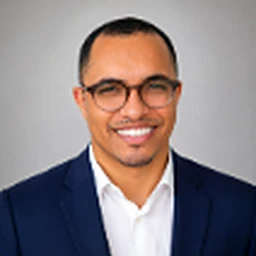
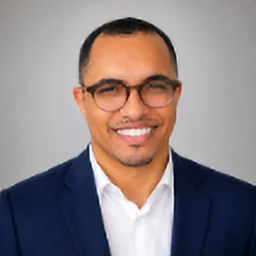
Sobre: seção renomeada para Autoria e colaboração; foto do Leonardo ampliada por super-resolução
Claude-Session: https://claude.ai/code/session_01DFo771rX3ZbXMTpi7iw3AK

diff --git a/index.html b/index.html
@@ -3087,7 +3087,7 @@ SESSÃO A AVALIAR (já pseudonimizada, turnos numerados)
 
 
     <details class="disclosure" id="autores" open>
-      <summary><span>Sobre os autores</span><span class="dchev">›</span></summary>
+      <summary><span>Autoria e colaboração</span><span class="dchev">›</span></summary>
       <div class="dbody autores">
         <article class="autor"><img src="img/autores/vinicius.webp" alt="Foto de Vinícius Delfino Silva" width="96" height="96" loading="lazy"><div><h3>Vinícius Delfino Silva <span>· mestrando</span></h3><p>Mestrando em Educação em Ciências e Matemática pelo Programa Educimat do Instituto Federal do Espírito Santo (Ifes), especialista em Informática na Educação (2018) e licenciado em Letras Português (2017), ambos pelo Ifes. Atua como professor efetivo de Língua Portuguesa na Secretaria da Educação do Espírito Santo e na Prefeitura Municipal de Vila Velha. É desenvolvedor do agente conversacional personalizado "GeneGênio", produção técnica premiada com o segundo lugar no VIII Concefor, e do MOOC "Gemini Notebook: Primeiros Passos", ofertado na plataforma de cursos abertos do Ifes. Tem interesse em temas relacionados à cultura digital, ao design de experiências de aprendizagem mediadas por inteligência artificial e à inovação pedagógica em contextos educacionais presenciais e online. Foi vencedor da VII Olimpíada de Língua Portuguesa (2021), na categoria Relato de Prática – Documentário.</p></div></article>
         <article class="autor"><img src="img/autores/vanessa.webp" alt="Foto de Vanessa Battestin" width="96" height="96" loading="lazy"><div><h3>Profa. Dra. Vanessa Battestin <span>· orientadora</span></h3><p>Doutora em Educação, mestre em Informática e bacharel em Ciência da Computação. É professora titular do Ifes, efetiva desde 2005, lotada no Cefor, onde atualmente é coordenadora da Universidade Aberta do Brasil, professora permanente do Mestrado e Doutorado Educimat e líder do grupo de pesquisa Educação e Tecnologia. É vice-coordenadora do grupo de trabalho de EaD do Conif desde 2016, representante dos Institutos Federais no Comitê de Coordenação Política da UniRede e presidente da comissão de cursos abertos (MOOC) do Ifes. É especialista internacional (perita) da Agência de Avaliação e Acreditação do Ensino Superior (A3ES) de Portugal. Foi diretora do Cefor de 2014 a 2019 e vice-coordenadora, no Ifes, do projeto internacional Embrace, que envolveu instituições da Finlândia, de Portugal, da Colômbia e do Brasil. Atua principalmente nos temas Educação a Distância, MOOC e Tecnologias Educacionais.</p></div></article>
